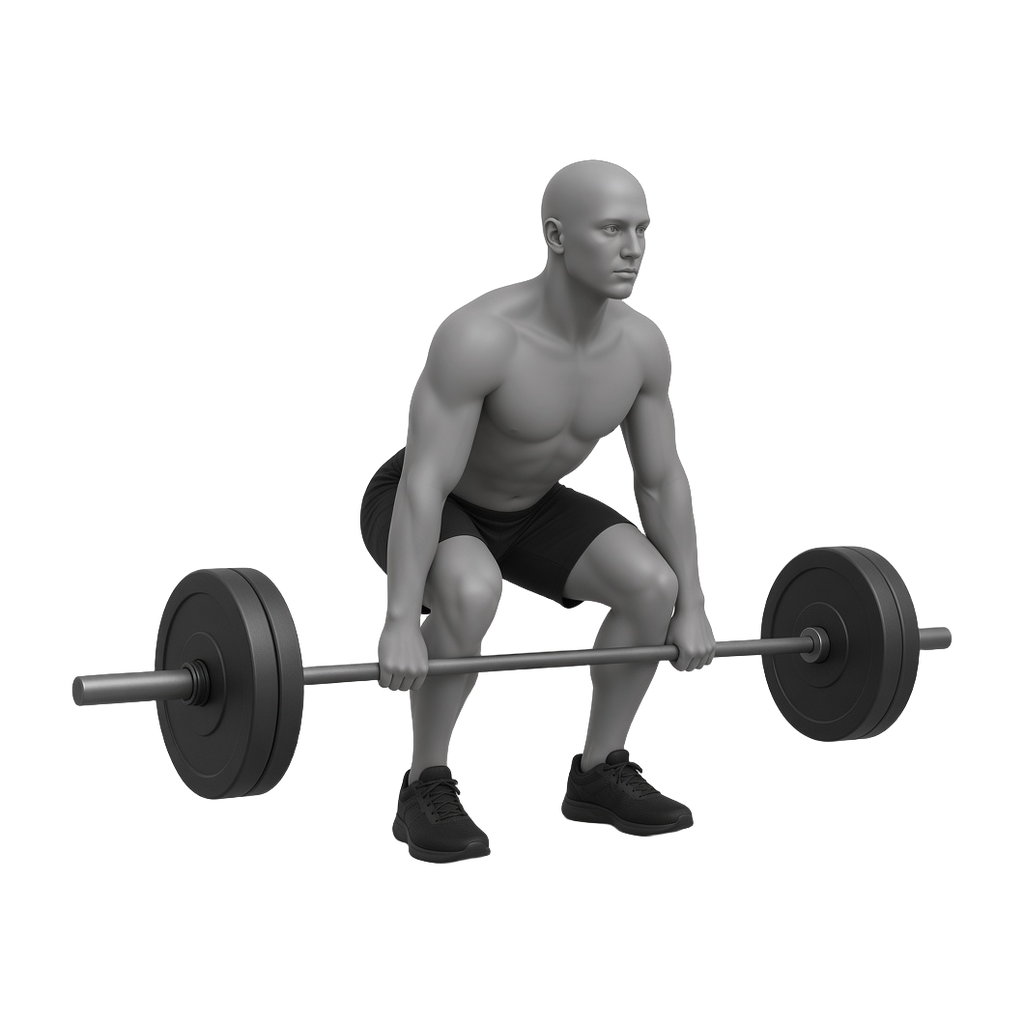
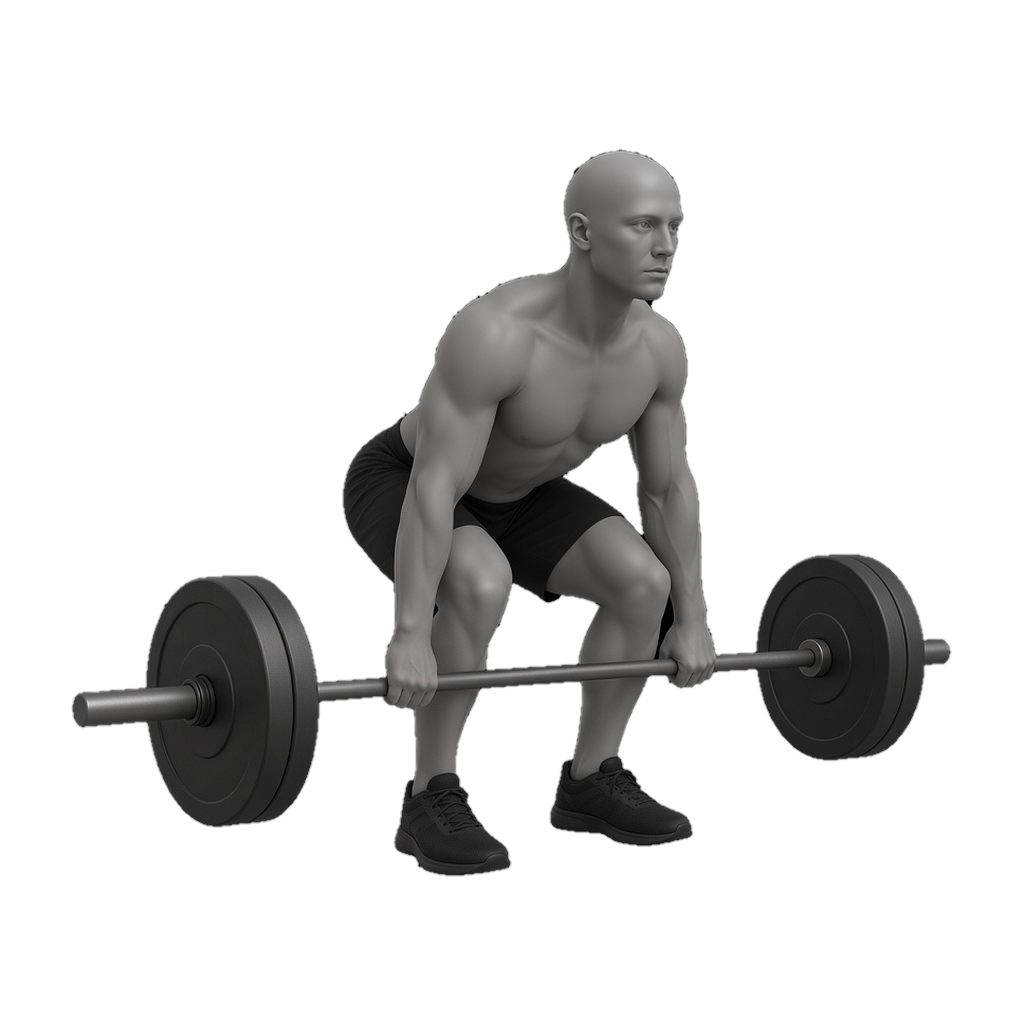
Correct wave1 exercise illustrations after 100% audit.
Regenerate dumbbell-bench-press (remove third arm). Fix deadlift bar
height, pull-up bar anchor, and barbell-row torso contact. Leave the
other eight illustrations and production bench_press untouched.

Changed region(s): [[0.0625, 0.125, 0.9375, 0.875]]

diff --git a/assets/exercises/illustrations/wave1/VALIDATION.md b/assets/exercises/illustrations/wave1/VALIDATION.md
@@ -1,43 +1,73 @@
-# Validation wave 1 — illustrations d’exercices
+# Validation wave 1 — audit + correction (ronde 2)
 
 **Branche :** `bot/exercise-assets-wave1`  
-**Base :** `origin/bot/migrate-supabase-to-convex` @ `e176f42a08be90a4678a7a1f0715cc2f2c474738`  
+**Parent :** `f068667c2ebcda1da9a927e79c11c9e839e801ff`  
 **Statut :** assets + manifeste + planches uniquement. **Pas d’intégration UI. Pas de PR. En attente GO Evan.**
+
+## Correction obligatoire
+
+`dumbbell-bench-press.png` régénéré **entièrement** (essai 1 / 3, livré).
+
+- **Avant :** 2 bras + haltères en press **et** un 3ᵉ bras pendant le long du banc (membre surnuméraire).
+- **Après (PNG ouvert à 100 %) :** exactement **2 bras**, **2 mains**, **2 haltères** (une par main), **2 jambes**, **2 pieds**. Aucun membre fusionné / dupliqué / ambigu. Corps à plat sur banc plat. Mains autour des poignées. Mouvement immédiatement lisible (développé couché haltères).
+
+Les 3 autres fichiers listés en contrôles prioritaires n’ont été remplacés que pour un défaut réel.
 
 ## Style
 
-Référence officielle : illustration 3D monochrome du développé couché (athlète graphite, matériel noir/gris, éclairage studio doux, silhouette lisible).
+Référence officielle : illustration 3D monochrome du développé couché (graphite, matériel noir/gris, éclairage studio, silhouette lisible).
 
-Match de série :
+Série :
 
-- même mannequin masculin chauve, peau graphite mate, short noir, baskets noires ;
-- matériel noir / gris, aucun rouge détecté (`has_saturated_red = false` sur les 12) ;
-- fond réellement transparent (Pillow `RGBA`, ImageMagick `channels=srgba`, `alpha=True`) ;
-- pas de texte, logo, sol, décor de salle, ombre rectangulaire, watermark.
+- mannequin masculin chauve, peau graphite mate, short noir, baskets noires ;
+- matériel noir / gris, `has_saturated_red = false` sur les 12 ;
+- fond réellement transparent (Pillow `RGBA`, ImageMagick `channels=srgba`, `opaque=false`, `IHDR.color_type=6`, `minA=0`) ;
+- pas de texte, logo, sol, décor de salle, watermark.
 
-Écarts de style (non bloquants, à trancher par Evan) :
+## Tableau des 12 (audit 100 %)
 
-- les mouvements debout sont plutôt en trois-quarts face (lisibilité icône) alors que la ref bench est plus de profil ;
-- le visage est un peu plus indiqué que la ref (nez / orbites), toujours simplifié, pas de détails réalistes.
+Chaque PNG a été ouvert à 1024×1024 (pas seulement la planche). Comptage bras / mains / jambes / pieds, contacts, matériel, posture, style, alpha.
+
+| Fichier | Id canonique | Statut | Justification |
+|---|---|---|---|
+| `incline-bench-press.png` | `incline_bench_press` | **VALIDÉ** | 2 bras, 2 mains sur la barre, 2 jambes, 2 pieds au sol. Banc incliné lisible, barre droite, 1 disque / côté. Inchangé. |
+| `dumbbell-bench-press.png` | `dumbbell_bench_press` | **CORRIGÉ** | Bug 3 bras éliminé. 2 bras + 2 mains + 2 haltères hexagonales identiques au lockout. Banc plat, bassin/dos/tête posés, genoux fléchis, 2 pieds. Aucun 3ᵉ membre sur le flanc du banc (crop 100 % jambes). |
+| `overhead-press.png` | `overhead_press` | **VALIDÉ** | 2 bras, 2 mains sur barre lockout, 2 jambes, 2 pieds. Barre droite, disques symétriques. Inchangé. |
+| `back-squat.png` | `back_squat` | **VALIDÉ** | 2 bras, 2 mains, barre sur le haut du dos, 2 jambes, 2 pieds. Profondeur squat lisible, barre parallèle. Inchangé. |
+| `deadlift.png` | `deadlift` | **CORRIGÉ** | Avant : barre trop haute (genou). Après : départ identifiable, **barre mid-tibia collée aux tibias**, 2 disques / côté dont la base est au niveau des semelles, 2 mains en pronation, 2 pieds. Posture encore un peu « squatty » (genoux très fléchis) mais plus de barre à hauteur de genou. |
+| `leg-press.png` | `leg_press` | **VALIDÉ** | Presse 45° crédible. 2 jambes, 2 pieds à plat sur la plateforme diamant, 2 mains sur les poignées. Inchangé. |
+| `barbell-row.png` | `barbell_row` | **CORRIGÉ** | Avant : barre à la hanche / haut de cuisse (ambigu RDL). Après : 2 mains, coudes fléchis en tirage, **barre au bas du torse** (abdomen / ceinture, au-dessus des hanches). Pas collée aux côtes basses ; le mouvement est un rowing, plus une RDL. |
+| `pull-up.png` | `pull_up` | **CORRIGÉ** | Avant : barre cylindrique flottante sans ancrage. Après : cage 2 montants + semelles, barre boulonnée entre les montants, 2 mains en pronation, genoux fléchis, pieds décollés. Barre non flottante. |
+| `lat-pulldown.png` | `lat_pulldown` | **VALIDÉ** | Assis, poulie haute. **2 mains clairement visibles**. Barre large **devant le visage, vers le haut de poitrine**. 2 jambes, 2 pieds. Inchangé. |
+| `dumbbell-curl.png` | `dumbbell_curl` | **VALIDÉ** | 2 bras, 2 mains, 2 haltères identiques en flexion, 2 jambes, 2 pieds. Inchangé. |
+| `triceps-pushdown.png` | `triceps_pushdown` | **VALIDÉ** | **2 mains distinctes** sur la corde, coudes près du corps, **2 extrémités de corde + boules visibles**. Poulie haute. Inchangé (lockout encore un peu souple, non bloquant). |
+| `lateral-raise.png` | `lateral_raise` | **VALIDÉ** | 2 bras en T, 2 haltères identiques, 2 jambes, 2 pieds. Inchangé. |
+
+Aucun fichier en **À REVOIR**.
 
 ## Technique (chaque fichier)
 
 | Fichier | Canonique | Size | Mode | Alpha | Poids |
 |---|---|---|---|---|---|
 | `incline-bench-press.png` | `incline_bench_press` | 1024×1024 | RGBA / srgba | oui (minA=0) | 240.9 Ko |
-| `dumbbell-bench-press.png` | `dumbbell_bench_press` | 1024×1024 | RGBA / srgba | oui | 205.2 Ko |
+| `dumbbell-bench-press.png` | `dumbbell_bench_press` | 1024×1024 | RGBA / srgba | oui | 247.6 Ko |
 | `overhead-press.png` | `overhead_press` | 1024×1024 | RGBA / srgba | oui | 163.3 Ko |
 | `back-squat.png` | `back_squat` | 1024×1024 | RGBA / srgba | oui | 277.1 Ko |
-| `deadlift.png` | `deadlift` | 1024×1024 | RGBA / srgba | oui | 244.0 Ko |
+| `deadlift.png` | `deadlift` | 1024×1024 | RGBA / srgba | oui | 246.6 Ko |
 | `leg-press.png` | `leg_press` | 1024×1024 | RGBA / srgba | oui | 460.8 Ko |
-| `barbell-row.png` | `barbell_row` | 1024×1024 | RGBA / srgba | oui | 223.0 Ko |
-| `pull-up.png` | `pull_up` | 1024×1024 | RGBA / srgba | oui | 118.4 Ko |
+| `barbell-row.png` | `barbell_row` | 1024×1024 | RGBA / srgba | oui | 206.6 Ko |
+| `pull-up.png` | `pull_up` | 1024×1024 | RGBA / srgba | oui | 161.0 Ko |
 | `lat-pulldown.png` | `lat_pulldown` | 1024×1024 | RGBA / srgba | oui | 200.0 Ko |
 | `dumbbell-curl.png` | `dumbbell_curl` | 1024×1024 | RGBA / srgba | oui | 142.2 Ko |
-| `lateral-raise.png` | `lateral_raise` | 1024×1024 | RGBA / srgba | oui | 138.3 Ko |
 | `triceps-pushdown.png` | `triceps_pushdown` | 1024×1024 | RGBA / srgba | oui | 173.4 Ko |
+| `lateral-raise.png` | `lateral_raise` | 1024×1024 | RGBA / srgba | oui | 138.3 Ko |
 
-Post-traitement : `rembg` + nettoyage du glow de sol + recadrage centré marges ~7 % + PNG optimisé. Aucune dégradation visible à 1024.
+Post-traitement des 4 corrigés : masque luminance sur fond noir pur + fermeture 1 px + remplissage des **petits** trous (short) sans remplir les cavités anatomiques (entre bras/barre, entre cuisses) + recadrage centré marges ~7 % + PNG optimisé.
+
+## Lisibilité 56 px / 72 px
+
+- **56 px :** squat, presse, développés, curl, élévations, rowing, deadlift et db-bench restent identifiables. Traction (cage) et pushdown (tour + corde) plus fins mais encore lisibles.
+- **72 px :** les 12 lisibles.
 
 ## Preuves visuelles
 
@@ -49,59 +79,14 @@ Dans ce dossier :
 - `validation/lisibilite-72px.png`
 - `validation/file-stats.json`
 
-Copies agent : `/opt/cursor/artifacts/exercise-wave1-proofs/` (planches + chaque illu sur noir/blanc + 56/72 px).
-
-Lisibilité 56 px : squat, presse, développé, curl, élévations et rowing restent identifiables. Traction et pushdown sont plus fins (tour + corde) mais encore lisibles. 72 px : tous lisibles.
-
-## Doutes anatomiques (à trancher, pas d’intégration)
-
-| Id | Verdict | Doute |
-|---|---|---|
-| `incline_bench_press` | OK | Banc incliné clair, barre droite, 1 plaque / côté. |
-| `dumbbell_bench_press` | OK avec réserve | Haltères identiques. Épaule côté tête un peu aplatie par l’angle. |
-| `overhead_press` | OK | Lockout debout, bar path vertical, plaques symétriques. |
-| `back_squat` | OK | Barre haut du dos, parallèle, genoux alignés. |
-| `deadlift` | Réserve | Départ genoux fléchis / torse haut : correct. **Barre un peu haute** (genou plutôt que mid-tibia). |
-| `leg_press` | OK avec réserve | Vraie presse 45°. Jambes plus tendues qu’un 90° profond. |
-| `barbell_row` | Réserve | Buste ~45°, dos neutre. **Barre à la hanche / haut de cuisse**, pas collée aux côtes. |
-| `pull_up` | OK avec réserve | Bien **suspendu** (genoux pliés). Milieu de course, pas menton-barre. |
-| `lat_pulldown` | OK | Assis, poulie haute, barre large. Pads un peu hauts sur les cuisses. |
-| `dumbbell_curl` | OK | Flexion coude, haltères identiques. |
-| `triceps_pushdown` | Réserve | Poulie + corde OK. **Lockout mou** : plutôt « tient la corde » qu’extension dure. |
-| `lateral_raise` | OK | Debout, bras en T, haltères identiques. |
-
-Aucune image rejetée pour membres manquants, barre tordue, haltères non jumeaux, ou matériel fusionné au corps.
-
-## Fichiers créés (repo)
-
-```
-assets/exercises/illustrations/wave1/incline-bench-press.png
-assets/exercises/illustrations/wave1/dumbbell-bench-press.png
-assets/exercises/illustrations/wave1/overhead-press.png
-assets/exercises/illustrations/wave1/back-squat.png
-assets/exercises/illustrations/wave1/deadlift.png
-assets/exercises/illustrations/wave1/leg-press.png
-assets/exercises/illustrations/wave1/barbell-row.png
-assets/exercises/illustrations/wave1/pull-up.png
-assets/exercises/illustrations/wave1/lat-pulldown.png
-assets/exercises/illustrations/wave1/dumbbell-curl.png
-assets/exercises/illustrations/wave1/triceps-pushdown.png
-assets/exercises/illustrations/wave1/lateral-raise.png
-assets/exercises/illustrations/wave1/manifest.json
-assets/exercises/illustrations/wave1/README.md
-assets/exercises/illustrations/wave1/VALIDATION.md
-assets/exercises/illustrations/wave1/validation/planche-12-fond-noir.png
-assets/exercises/illustrations/wave1/validation/planche-12-fond-blanc.png
-assets/exercises/illustrations/wave1/validation/lisibilite-56px.png
-assets/exercises/illustrations/wave1/validation/lisibilite-72px.png
-assets/exercises/illustrations/wave1/validation/file-stats.json
-```
+Copies agent : `/opt/cursor/artifacts/exercise-wave1-audit/` (planches, chaque illu noir/blanc, 56/72, crops 100 %, avant/après).
 
 ## Non-changé (volontaire)
 
-- `src/assets/exercises/developpe-couche.webp` / `.jpg`
-- `src/utils/exerciseMedia.ts` (`CANONICAL_ASSETS` = `bench_press` seulement)
+- `src/assets/exercises/developpe-couche.webp` / `.jpg` — asset validé `bench_press` **non touché**
+- `src/utils/exerciseMedia.ts`
 - sélecteur d’exercices, flags Convex, Cloudflare, `main`
+- 8 illustrations wave1 sans défaut réel : incline, overhead, squat, leg-press, lat-pulldown, curl, triceps-pushdown, lateral-raise
 
 ## STOP
 
